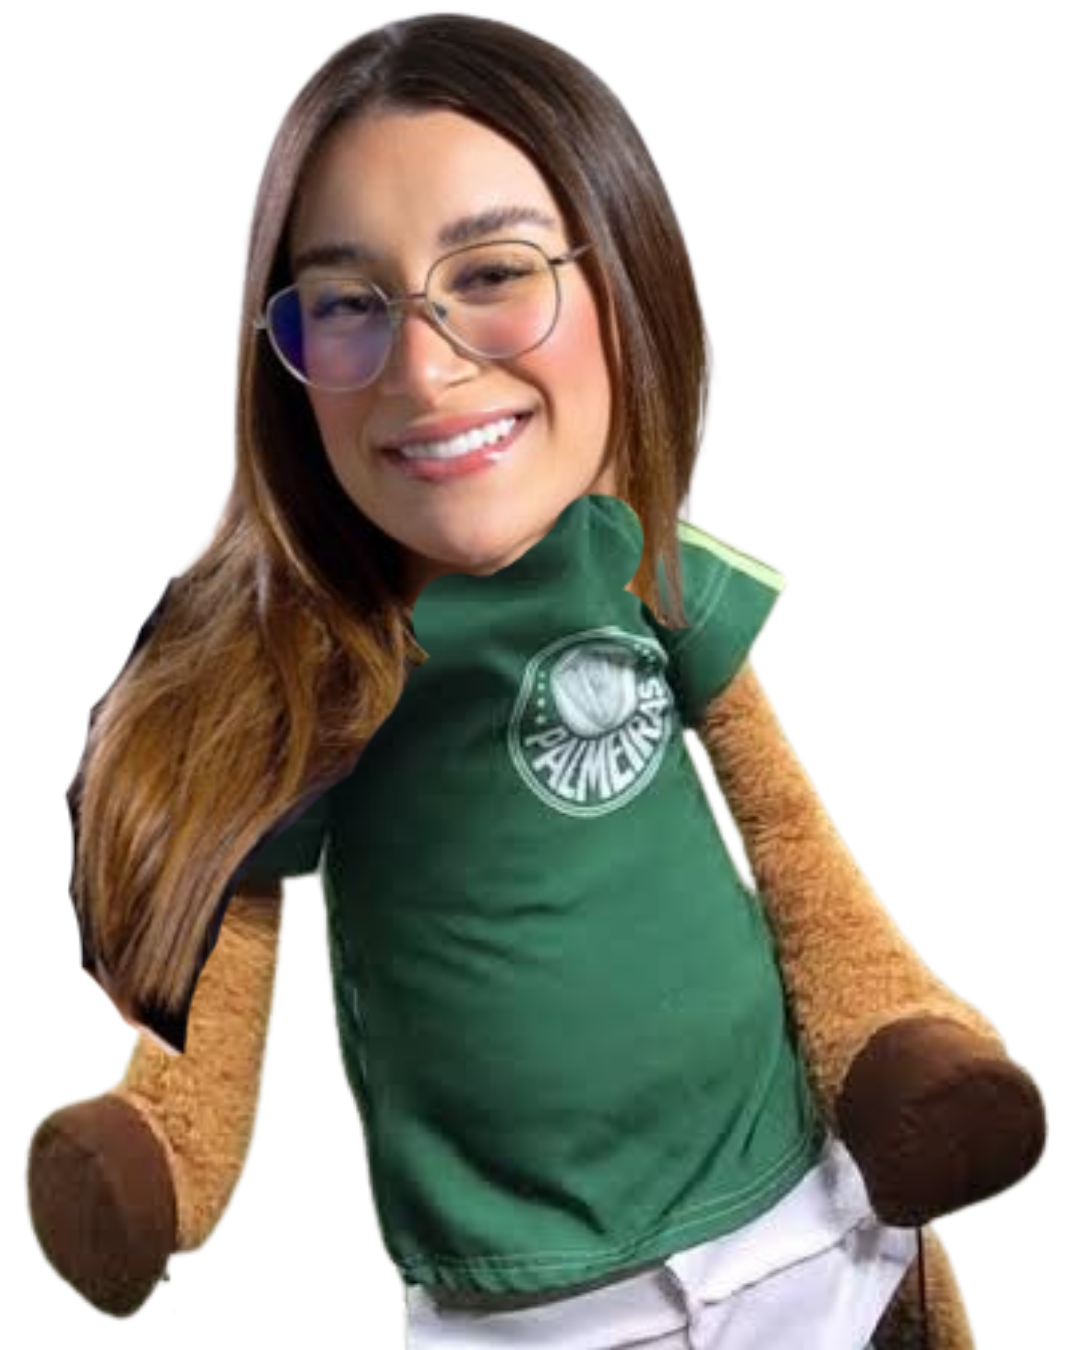
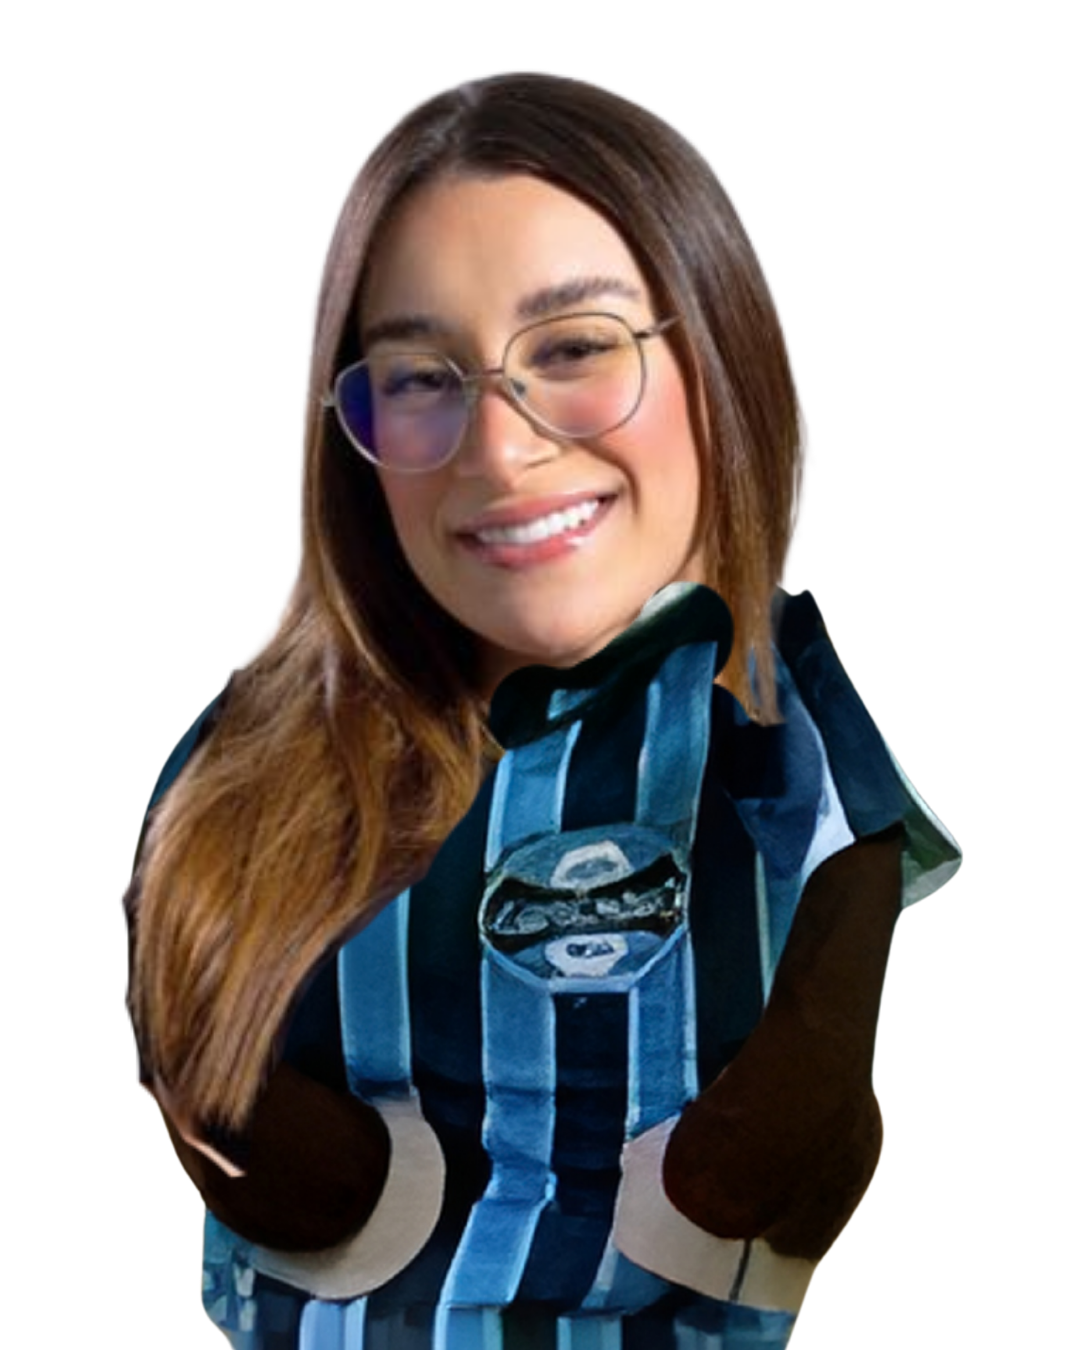
Mudança de times.

diff --git a/assets/script.js b/assets/script.js
@@ -36,7 +36,7 @@
 
     // Configuração dos Links por Mês
     const urlsPorMes = {
-        'jan': 'https://docs.google.com/spreadsheets/d/e/2PACX-1vS5Sfa3H9bHcQmlDmKspl0vKiIdYmv1FO8HB_sTINWRUXk05A8M_8EHy7ZAw0Vmt62CqqXX4N54YZ-I/pub?output=csv',
+        'jan': 'https://docs.google.com/spreadsheets/d/e/2PACX-1vS5Sfa3H9bHcQmlDmKspl0vKiIdYmv1FO8HB_sTINWRUXk05A8M_8EHy7ZAw0Vmt62CqqXX4N54YZ-I/pub?gid=0&single=true&output=csv',
         'fev': 'https://docs.google.com/spreadsheets/d/e/2PACX-1vS5Sfa3H9bHcQmlDmKspl0vKiIdYmv1FO8HB_sTINWRUXk05A8M_8EHy7ZAw0Vmt62CqqXX4N54YZ-I/pub?gid=431147865&single=true&output=csv',
         'mar': 'https://docs.google.com/spreadsheets/d/e/2PACX-1vS5Sfa3H9bHcQmlDmKspl0vKiIdYmv1FO8HB_sTINWRUXk05A8M_8EHy7ZAw0Vmt62CqqXX4N54YZ-I/pub?gid=837458743&single=true&output=csv'
     };
@@ -82,7 +82,12 @@
                 const valor = parseCurrency(valorString);
 
                 if (nome && nome.length > 2 && !isNaN(valor) && valor > 0) {
-                    resultados.push({ nome: nome, valor: valor });
+                    let nomeCorrigido = nome;
+                    if (nome.trim().toLowerCase().startsWith('emilly')) {
+                        // Corrige o nome para corresponder ao arquivo de imagem 'Emily.png'
+                        nomeCorrigido = 'Emily' + nome.substring('emilly'.length);
+                    }
+                    resultados.push({ nome: nomeCorrigido, valor: valor });
                 }
             });
             return resultados;
@@ -224,6 +229,7 @@
         if(modoAtual === 'geral') labelMes = "Geral (Ano)";
         else if(modoAtual === 'jan') labelMes = "Janeiro";
         else if(modoAtual === 'fev') labelMes = "Fevereiro";
+        else if(modoAtual === 'mar') labelMes = "Março";
         document.getElementById('kpi-titulo-mes').innerText = `(${labelMes})`;
 
         document.getElementById('kpi-total').innerText = totalFaturado.toLocaleString('pt-BR', { style: 'currency', currency: 'BRL' });
@@ -312,7 +318,7 @@
         let time = "Time Desconhecido";
         if (n.includes('everton')) time = "Corinthians (Timão)";
         else if (n.includes('maevelim')) time = "Botafogo (Fogão)";
-        else if (n.includes('emily')) time = "Palmeiras (Verdão)";
+        else if (n.includes('emily')) time = "Grêmio (Imortal)";
         else if (n.includes('dariele')) time = "Fluminense (Flu)";
         else if (n.includes('bruno')) time = "Flamengo (Mengão)";
         else if (n.includes('marlon')) time = "São Paulo (Tricolor)";
@@ -381,7 +387,10 @@
             colors = ['#000000', '#FFFFFF'];
             horizontal = true;
         }
-        else if (n.includes('emily')) colors = ['#006437', '#FFFFFF'];
+        else if (n.includes('emily')) {
+            colors = ['#0D80BF', '#000000', '#FFFFFF'];
+            horizontal = true;
+        }
         else if (n.includes('dariele')) colors = ['#831D1C', '#00913C', '#FFFFFF'];
         else if (n.includes('bruno')) {
             colors = ['#C3281E', '#000000'];
